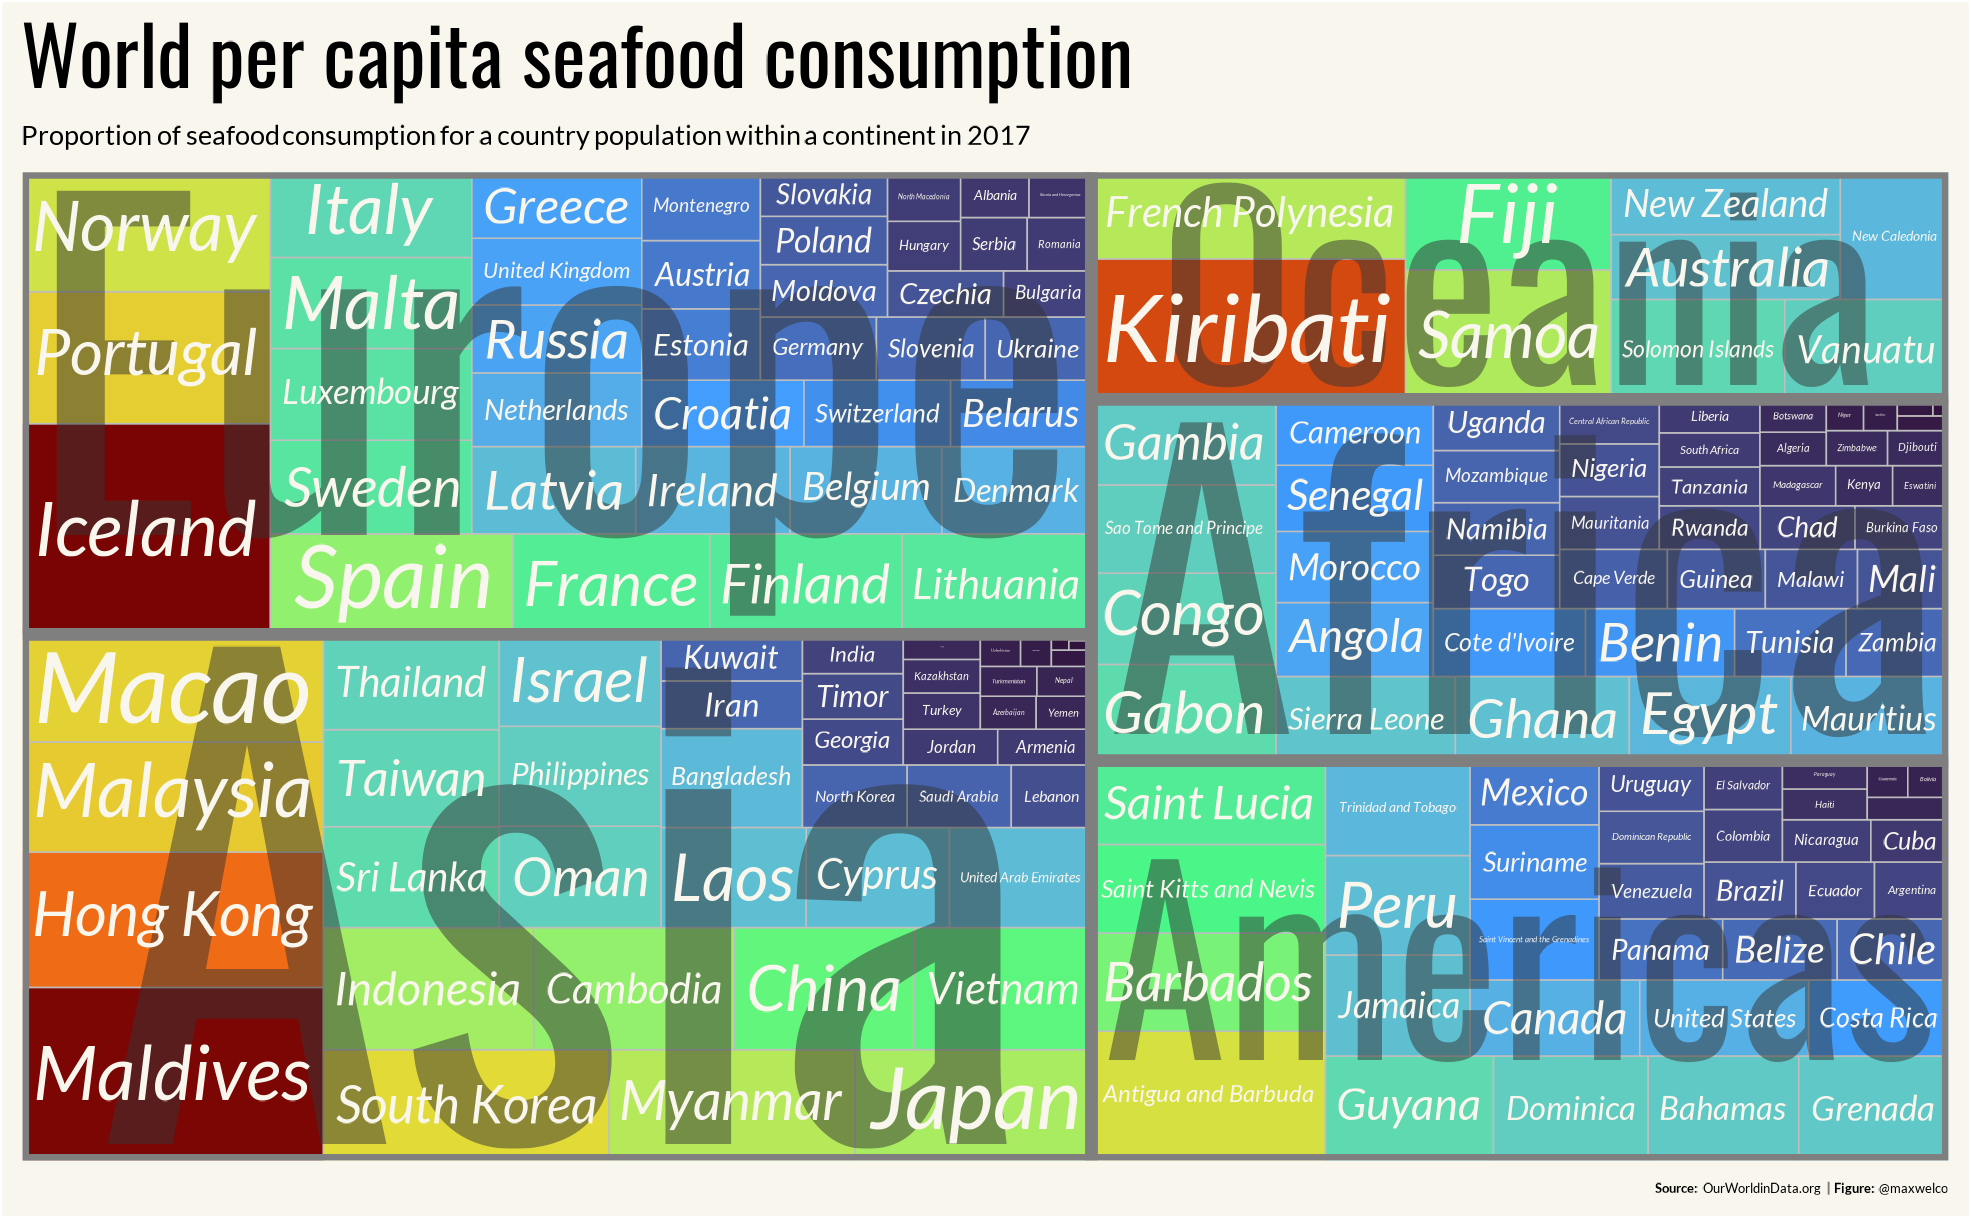
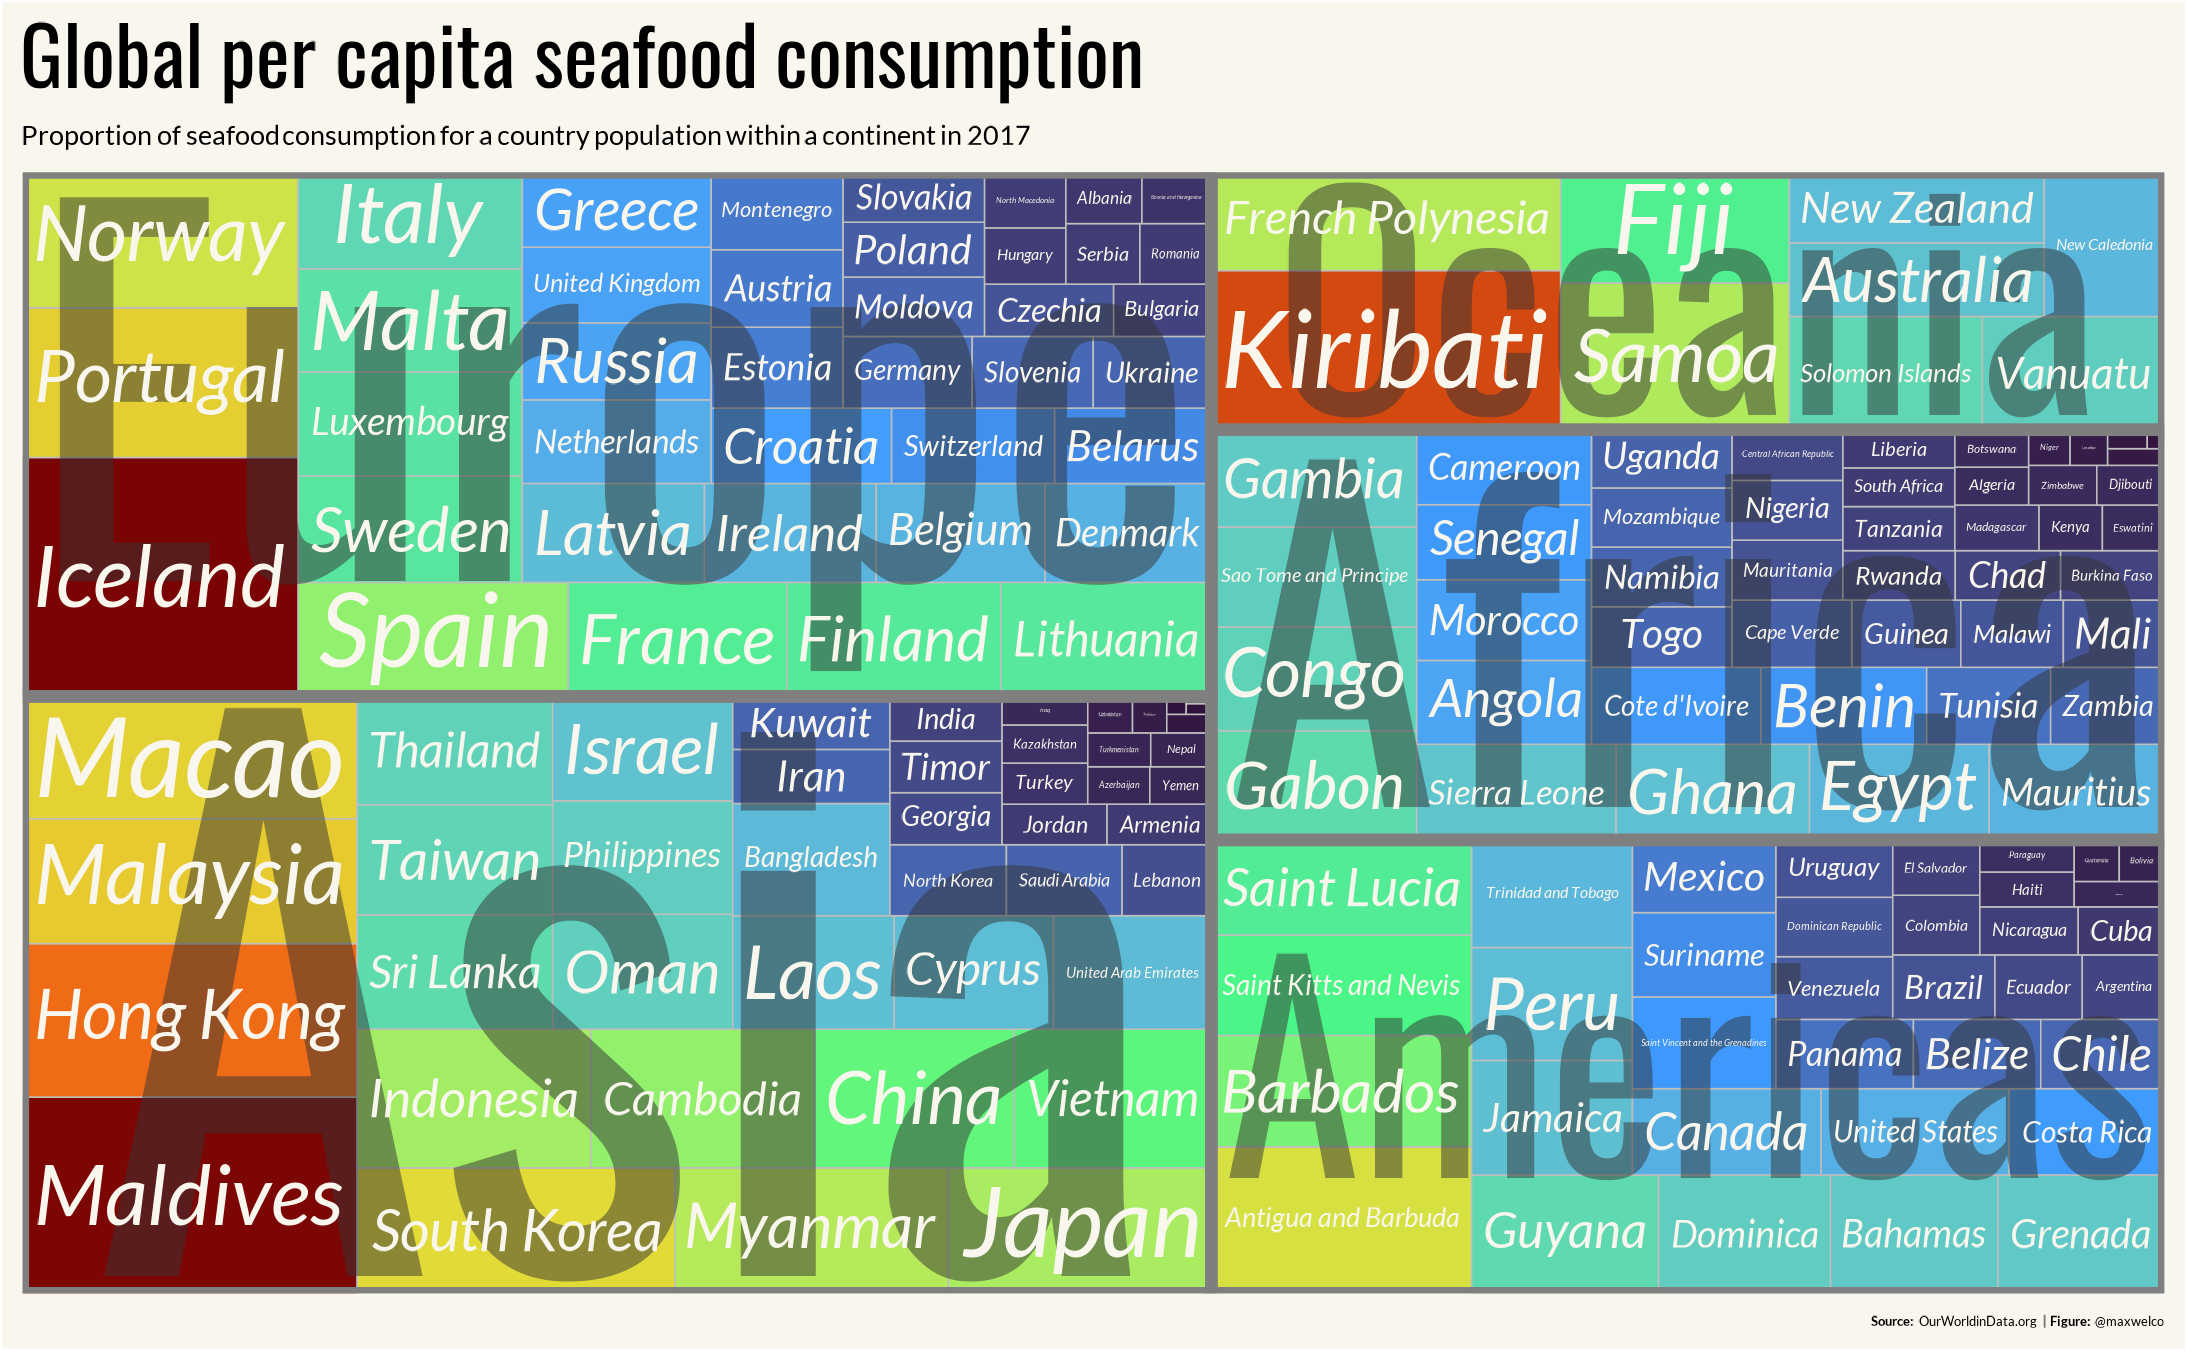
as

Changed region(s): [[0.0, 0.0, 0.9904, 0.9984]]

diff --git a/README.md b/README.md
@@ -5,6 +5,10 @@ My participation on [#TidyTuesday challenge](https://github.com/rfordatascience/
 
 ## 2021
 
+### Week 42 - Global Seafood
+
+![NBER' figure](2021/week_42-seafood/fig_42.png)
+
 ### Week 41 - Nurses wages
 
 ![NBER' figure](2021/week_41-nurses/fig.png)
